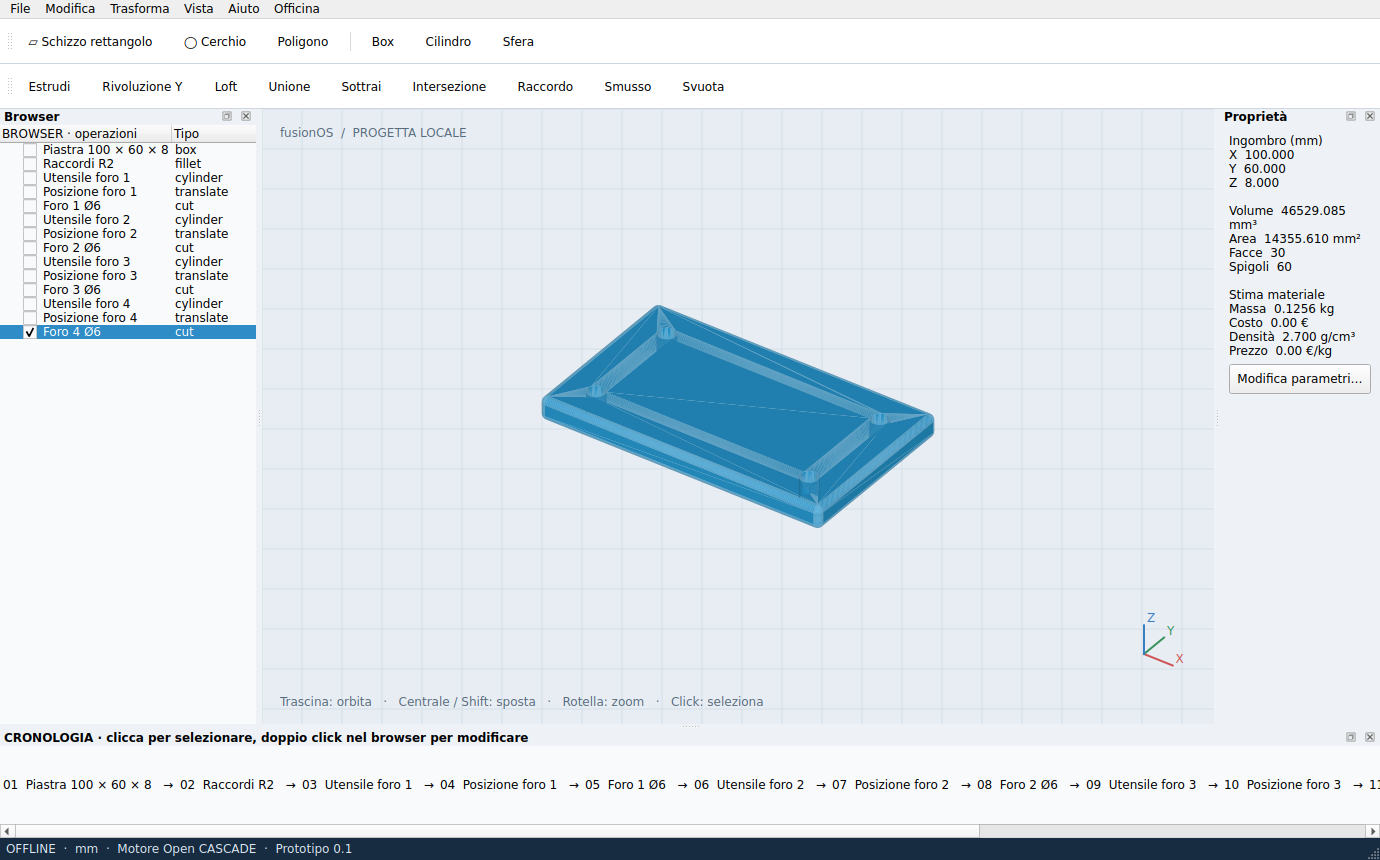
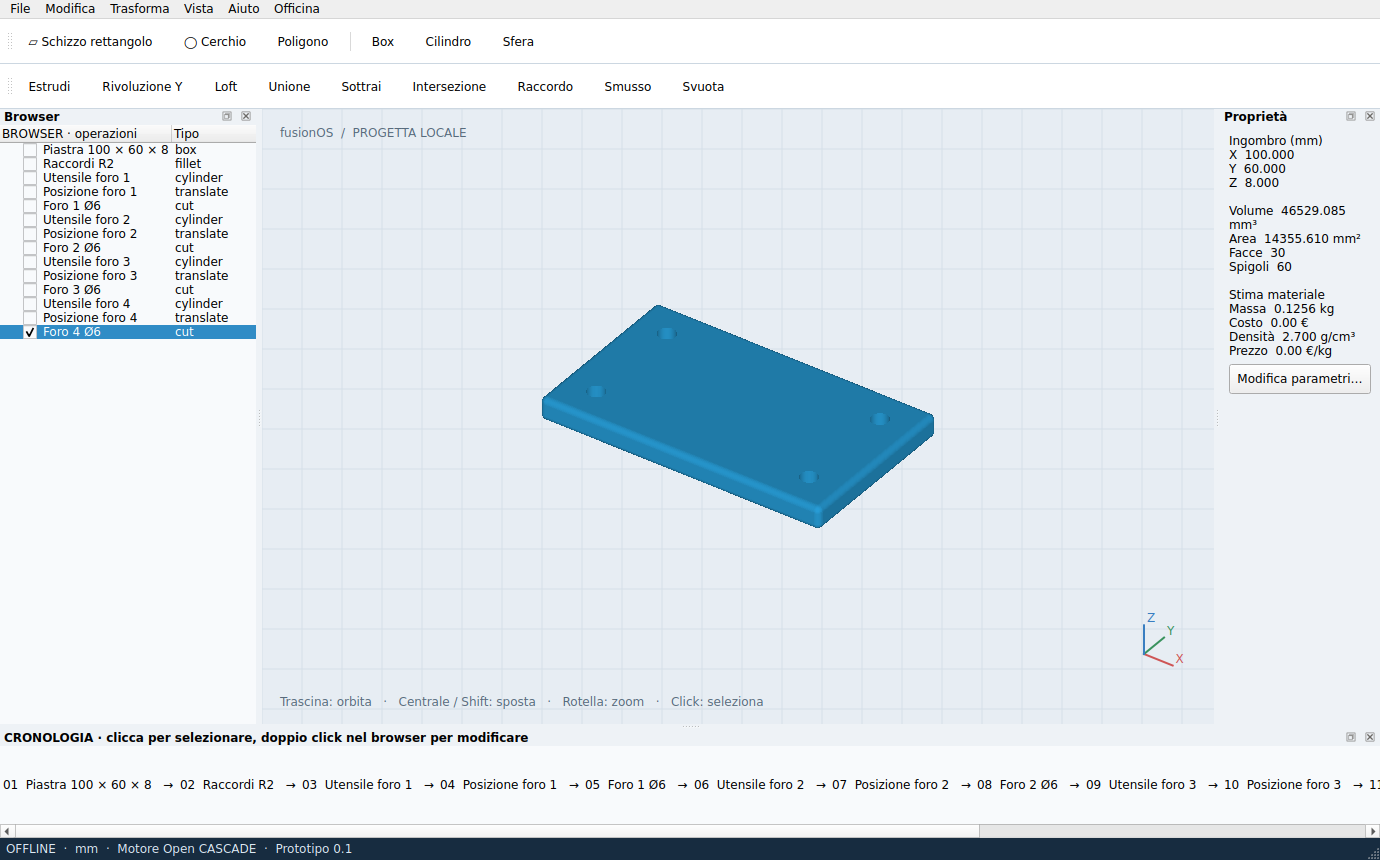
Fix viewport occlusion with software depth buffer and accurate body picking

Changed region(s): [[0.3739, 0.3628, 0.6855, 0.6047]]

diff --git a/fusionos/viewport.py b/fusionos/viewport.py
@@ -22,7 +22,8 @@ class Viewport(QtWidgets.QWidget):
         self.centre = np.zeros(3)
         self._last = None
         self._press = None
-        self._hit = []
+        self._pick_buffer = None
+        self._pick_keys = []
         self.tolerance = 0.15
         self.show_grid = True
 
@@ -67,8 +68,12 @@ class Viewport(QtWidgets.QWidget):
             painter.drawLine(0, y, self.width(), y)
         matrix = self.matrix()
         offset = np.array([self.width()/2, self.height()/2]) + self.pan
-        render = []
-        for key, vertices, triangles, solid in self.meshes:
+        width, height = self.width(), self.height()
+        pixels = np.zeros((height,width,4),dtype=np.uint8)
+        depth_buffer = np.full((height,width),-np.inf)
+        pick_buffer = np.full((height,width),-1,dtype=np.int32)
+        self._pick_keys = [key for key,_,_,_ in self.meshes]
+        for mesh_index, (key, vertices, triangles, solid) in enumerate(self.meshes):
             if not len(vertices):
                 continue
             rotated = (vertices-self.centre) @ matrix.T
@@ -76,19 +81,34 @@ class Viewport(QtWidgets.QWidget):
             for ids in triangles:
                 a,b,c = rotated[list(ids)]
                 normal = np.cross(b-a,c-a)
-                if solid and normal[2] <= 0:
-                    continue
-                light = 0.56 + 0.44*abs(normal[2])/max(np.linalg.norm(normal),1e-15)
+                light = 0.48 + 0.52*abs(normal[2])/max(np.linalg.norm(normal),1e-15)
                 rgb = (40,157,215) if key in self.selected else (152,177,196)
-                color = QtGui.QColor(*(int(channel*light) for channel in rgb))
-                poly = QtGui.QPolygonF([QtCore.QPointF(*points[i]) for i in ids])
-                render.append((float((a[2]+b[2]+c[2])/3), key, poly, color))
-        self._hit = []
-        painter.setPen(QtCore.Qt.NoPen)
-        for depth, key, poly, color in sorted(render, key=lambda item:item[0]):
-            painter.setBrush(color)
-            painter.drawPolygon(poly)
-            self._hit.append((key,poly))
+                color = [int(channel*light) for channel in rgb]+[255]
+                coords = points[list(ids)]
+                xmin = max(0,int(np.floor(coords[:,0].min())))
+                xmax = min(width-1,int(np.ceil(coords[:,0].max())))
+                ymin = max(0,int(np.floor(coords[:,1].min())))
+                ymax = min(height-1,int(np.ceil(coords[:,1].max())))
+                if xmax < xmin or ymax < ymin:
+                    continue
+                x0,y0 = coords[0]; x1,y1 = coords[1]; x2,y2 = coords[2]
+                denominator = (y1-y2)*(x0-x2)+(x2-x1)*(y0-y2)
+                if abs(denominator) < 1e-12:
+                    continue
+                yy,xx = np.mgrid[ymin:ymax+1,xmin:xmax+1]
+                xx = xx+0.5; yy = yy+0.5
+                w0 = ((y1-y2)*(xx-x2)+(x2-x1)*(yy-y2))/denominator
+                w1 = ((y2-y0)*(xx-x2)+(x0-x2)*(yy-y2))/denominator
+                w2 = 1-w0-w1
+                depth = w0*a[2]+w1*b[2]+w2*c[2]
+                region = depth_buffer[ymin:ymax+1,xmin:xmax+1]
+                mask = (w0>=-1e-9)&(w1>=-1e-9)&(w2>=-1e-9)&(depth>region)
+                region[mask] = depth[mask]
+                pixels[ymin:ymax+1,xmin:xmax+1][mask] = color
+                pick_buffer[ymin:ymax+1,xmin:xmax+1][mask] = mesh_index
+        self._pick_buffer = pick_buffer
+        frame = QtGui.QImage(pixels.data,width,height,width*4,QtGui.QImage.Format_RGBA8888)
+        painter.drawImage(0,0,frame)
         painter.setPen(QtGui.QColor("#586b7c"))
         painter.drawText(18, 28, "fusionOS  /  PROGETTA LOCALE")
         if not self.meshes:
@@ -122,10 +142,11 @@ class Viewport(QtWidgets.QWidget):
 
     def mouseReleaseEvent(self, event):
         if event.button() == QtCore.Qt.LeftButton and self._press is not None and (event.position()-self._press).manhattanLength() < 4:
-            for key, poly in reversed(self._hit):
-                if poly.containsPoint(event.position(), QtCore.Qt.OddEvenFill):
-                    self.picked.emit(key)
-                    break
+            x,y = int(event.position().x()),int(event.position().y())
+            if self._pick_buffer is not None and 0<=y<self._pick_buffer.shape[0] and 0<=x<self._pick_buffer.shape[1]:
+                index = self._pick_buffer[y,x]
+                if index >= 0:
+                    self.picked.emit(self._pick_keys[index])
         self._last = self._press = None
 
     def wheelEvent(self, event):

diff --git a/README.md b/README.md
@@ -91,8 +91,7 @@ ma restano modificabili nella cronologia. La casella nel browser li rende visibi
 - Schizzi su piani XY a Z variabile; rivoluzione solo intorno a Y globale.
 - Raccordi/svuotamenti usano indici di spigoli e facce, non selezione grafica
   dei sottoelementi. Gli indici possono cambiare dopo modifiche a monte.
-- Visualizzatore iniziale **CPU**, con ordinamento dei triangoli per profondità:
-  può mostrare artefatti in intersezioni o scene complesse. Non è destinato a
+- Visualizzatore iniziale **CPU**, con depth buffer software. Non è destinato a
   scansioni pesanti; massimo 100.000 triangoli per corpo visualizzato.
 - Ricostruzione sincrona: modelli grandi possono bloccare temporaneamente l'interfaccia.
 - Nessun import della cronologia `.f3d`, nessuna trasformazione automatica mesh-solido.

diff --git a/docs/ARCHITECTURE.md b/docs/ARCHITECTURE.md
@@ -22,7 +22,7 @@ Il salvataggio usa un file temporaneo adiacente e sostituzione atomica.
 
 In questa versione la precisione geometrica viene dal kernel. L'impostazione di
 qualità cambia solo la triangolazione di visualizzazione. Il visualizzatore CPU
-è transitorio: una futura versione dovrà adottare un viewport GPU con depth buffer,
+è transitorio: una futura versione dovrà adottare un viewport GPU (il prototipo ha un depth buffer software),
 selezione di facce/spigoli e identificazione dei sottoelementi.
 
 Il backup è una copia .foscad locale. Non sincronizza dati e non esegue rete.
